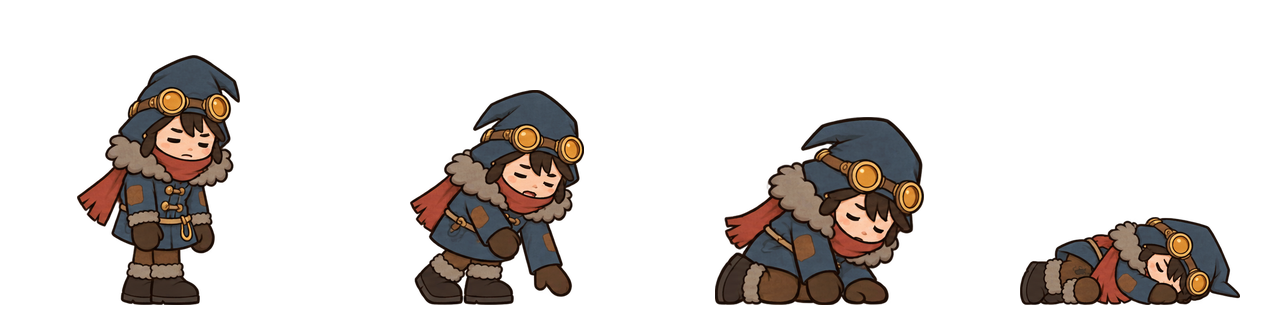
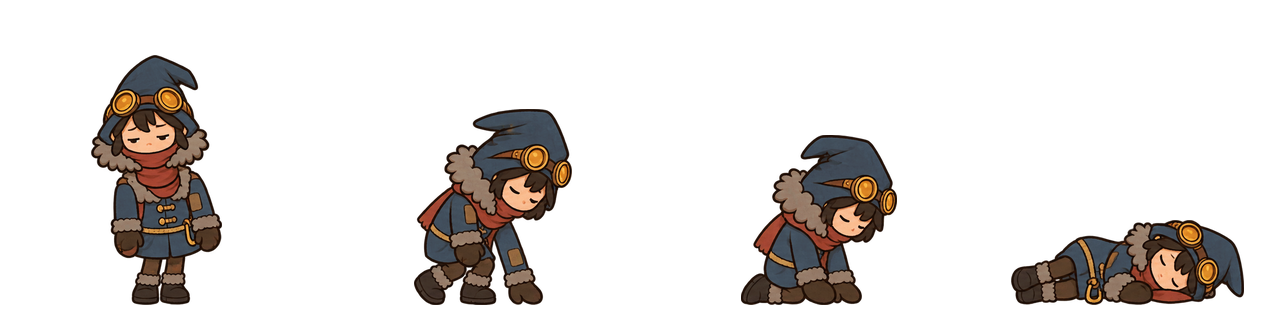
Art batch 3 fixes: lock Esk collapse and dead to turnaround scale

diff --git a/art-codex/tools/finish_batch3.py b/art-codex/tools/finish_batch3.py
@@ -5,7 +5,9 @@ import json
 from pathlib import Path
 import numpy as np
 from PIL import Image, ImageFilter
-from prepare_generated import ROOT, OUT
+from prepare_generated import ROOT, OUT, content
+from check_art import flood, border_mask
+from prepare_batch3 import register as register_generated
 
 
 def records():
@@ -76,6 +78,7 @@ def log_group(group):
     text = '\n## Batch 3: '+group+'\n\n'
     for r in rs:
         text += '### '+r['id']+'\n\nTries: '+str(r.get('tries',1))+'. Built-in imagegen. Source: `'+r['path']+'`.\n\nFinal prompt:\n\n'+r['prompt']+'\n\n'
+        if r.get('notes'): text += r['notes']+'\n\n'
     log = OUT/'LOG.md'
     text = '\n'.join(line.rstrip() for line in text.splitlines())+'\n'
     log.write_text((log.read_text()+text).rstrip()+'\n')
@@ -105,12 +108,100 @@ def centre_strips():
         out.save(path)
 
 
+def small_regions(mask,limit):
+    remaining = mask.copy()
+    h,w = mask.shape
+    for y,x in zip(*np.where(mask)):
+        if not remaining[y,x]: continue
+        stack,points = [(y,x)],[]
+        remaining[y,x] = False
+        while stack:
+            cy,cx = stack.pop()
+            points.append((cy,cx))
+            for ny,nx in ((cy-1,cx),(cy+1,cx),(cy,cx-1),(cy,cx+1)):
+                if 0<=ny<h and 0<=nx<w and remaining[ny,nx]:
+                    remaining[ny,nx] = False
+                    stack.append((ny,nx))
+        if len(points)<=limit: yield tuple(np.array(points).T)
+
+
+def clean_icons(ids=None):
+    specs = json.loads((ROOT/'assets.json').read_text())['assets']
+    for a in specs:
+        if a['batch'] != 3 or not a['id'].startswith(('icon-','badge-','trait-')): continue
+        if ids is not None and a['id'] not in ids: continue
+        path = ROOT.parent/a['path']
+        record = json.loads((OUT/'provenance/batch3'/f"{a['id']}.json").read_text())
+        # Always begin from the generated source so repeated cleanup is stable.
+        register_generated(record['path'],a['id'])
+        rgba = np.array(Image.open(path).convert('RGBA'))
+        alpha = rgba[:,:,3].copy()
+        if a['id']=='icon-lens':
+            # Turn generated glass opacity into a flat disc; encode its painted
+            # upper-left highlight as one transparent cutout instead of shading.
+            empty = alpha<16
+            disk = ~flood(empty,border_mask(*empty.shape,'tblr') & empty)
+            inset = np.asarray(Image.fromarray(disk.astype('uint8')*255).filter(ImageFilter.MinFilter(9)))>0
+            yy,xx = np.indices(alpha.shape)
+            highlights = list(small_regions((alpha>=240)&inset&(xx<64)&(yy<80),alpha.size))
+            if not highlights: raise ValueError('No generated lens highlight found')
+            highlight = max(highlights,key=lambda r:len(r[0]))
+            alpha = disk.astype('uint8')*255
+            alpha[highlight] = 0
+            alpha = np.array(Image.fromarray(alpha).resize((256,256),Image.Resampling.LANCZOS).resize((128,128),Image.Resampling.LANCZOS))
+        if a['id']=='badge-guard':
+            alpha = np.array(Image.fromarray(alpha).filter(ImageFilter.MaxFilter(9)))
+        if a['id']=='trait-night-owl':
+            regions = list(small_regions(alpha>=128,alpha.size))
+            largest = max(regions,key=lambda r:len(r[0]))
+            keep = np.zeros(alpha.shape,dtype=np.uint8)
+            keep[largest] = 255
+            allowed = np.asarray(Image.fromarray(keep).filter(ImageFilter.MaxFilter(3)))>0
+            alpha[~allowed] = 0
+        for region in small_regions(alpha>=16,3): alpha[region] = 0
+        solid = alpha>=128
+        empty = ~solid
+        exterior = flood(empty,border_mask(*empty.shape,'tblr') & empty)
+        for region in small_regions(empty & ~exterior,12): alpha[region] = 255
+        solid = alpha>=128
+        interior = np.asarray(Image.fromarray(solid.astype('uint8')*255).filter(ImageFilter.MinFilter(3)))>0
+        alpha[interior] = 255
+        alpha[alpha>=240] = 255
+        alpha[alpha<16] = 0
+        rgba[:,:,3] = alpha
+        rgba[:,:,:3] = 255
+        cell = content(Image.fromarray(rgba))
+        scale = min(96/cell.width,96/cell.height)
+        cell = cell.resize((round(cell.width*scale),round(cell.height*scale)),Image.Resampling.LANCZOS)
+        out = Image.new('RGBA',(128,128))
+        out.alpha_composite(cell,((128-cell.width)//2,(128-cell.height)//2))
+        out.save(path)
+
+
+def esk_frost(source):
+    strip = Image.open(OUT/'characters/esk/poses/collapse.png').convert('RGBA')
+    base = strip.crop((960,0,1280,320))
+    edited = Image.open(source).convert('RGBA').resize((320,320),Image.Resampling.LANCZOS)
+    rgba = np.array(edited)
+    rgb = rgba[:,:,:3].astype(np.int16)
+    near = np.asarray(base.getchannel('A').filter(ImageFilter.MaxFilter(13)))>=128
+    frost = (rgb[:,:,0]>=160)&(rgb[:,:,1]>=170)&(rgb[:,:,2]>=180)&(rgb[:,:,2]>=rgb[:,:,1])&(rgb[:,:,1]>=rgb[:,:,0]-1)&(rgba[:,:,3]>=32)&near
+    frost[305:] = False
+    if frost.sum()<20: raise ValueError('Generated edit contains too little usable frost')
+    overlay = np.zeros_like(rgba)
+    overlay[frost] = rgba[frost]
+    base.alpha_composite(Image.fromarray(overlay))
+    base.save(OUT/'characters/esk/poses/dead.png')
+
+
 if __name__ == '__main__':
     p = argparse.ArgumentParser()
-    p.add_argument('mode',choices=('states','wrap','log','centre'))
+    p.add_argument('mode',choices=('states','wrap','log','centre','icons','frost'))
     p.add_argument('value',nargs='?')
     args = p.parse_args()
     if args.mode == 'states': align_states()
     elif args.mode == 'centre': centre_strips()
+    elif args.mode == 'icons': clean_icons(set(args.value.split(',')) if args.value else None)
+    elif args.mode == 'frost': esk_frost(args.value)
     elif args.mode == 'wrap': wrap_texture(Path(args.value))
     else: log_group(args.value)

diff --git a/art-codex/tools/review_batch3.py b/art-codex/tools/review_batch3.py
@@ -23,15 +23,19 @@ def comparison(pose, names=NAMES):
 
 
 def icons():
-    names = ('coal', 'food', 'survivors', 'hearth')
-    sheet = Image.new('RGB', (320,128), '#33291f')
-    draw = ImageDraw.Draw(sheet)
-    for i,name in enumerate(names):
-        icon = Image.open(OUT/'ui/icons'/f'{name}.png').convert('RGBA')
-        tiny = icon.resize((20,20),Image.Resampling.LANCZOS)
-        sheet.paste(tiny, (i*80+30,30),tiny)
-        draw.text((i*80+8,65),name,fill='white')
-    sheet.save(OUT/'contact-batch3-icons-20px.png')
+    specs = json.loads((OUT.parent/'assets.json').read_text())['assets']
+    rows = [a for a in specs if (a['batch']==3 and a['id'].startswith(('icon-','badge-','trait-'))) or a['id'] in ('icon-coal','icon-food','icon-survivors','icon-hearth')]
+    rows = [a for a in rows if (OUT.parent.parent/a['path']).exists()]
+    for size,cellw,cellh in ((20,112,72),(128,144,160)):
+        sheet = Image.new('RGB',(6*cellw,((len(rows)+5)//6)*cellh),'#33291f')
+        draw = ImageDraw.Draw(sheet)
+        for i,a in enumerate(rows):
+            im = Image.open(OUT.parent.parent/a['path']).convert('RGBA').resize((size,size),Image.Resampling.LANCZOS)
+            x,y=(i%6)*cellw,(i//6)*cellh
+            sheet.paste(im,(x+(cellw-size)//2,y+8),im)
+            label = a['id'].removeprefix('icon-').replace('badge-','role-')
+            draw.text((x+3,y+size+18),label,fill='white')
+        sheet.save(OUT/f'contact-batch3-icons-{size}px.png')
 
 
 def buildings():
@@ -70,6 +74,17 @@ def creatures():
     sheet.save(OUT/'contact-batch3-creatures.png')
 
 
+def head_scale():
+    sheet = Image.new('RGBA',(960,720),(100,100,100,255))
+    draw = ImageDraw.Draw(sheet)
+    for row,name in enumerate(('esk','mara')):
+        for col,(folder,file) in enumerate((('anim','idle.png'),('anim','walk.png'),('poses','collapse.png'))):
+            head = Image.open(OUT/'characters'/name/folder/file).convert('RGBA').crop((80,30,240,210)).resize((320,360),Image.Resampling.NEAREST)
+            sheet.alpha_composite(head,(col*320,row*360))
+            draw.text((col*320+5,row*360+5),f'{name} {file}',fill='white')
+    sheet.convert('RGB').save(OUT/'contact-batch3-head-scale.png')
+
+
 if __name__ == '__main__':
     comparison('eat')
     comparison('collapse', ('esk','mara','ostra','pim','ruta'))
@@ -77,6 +92,7 @@ if __name__ == '__main__':
     icons()
     buildings()
     creatures()
+    head_scale()
     for pose in ('climb-up','climb-down','ladder-on','ladder-off','research'):
         if all((OUT/'characters'/name/'poses'/f'{pose}.png').exists() for name in NAMES):
             comparison(pose)

diff --git a/art-codex/out/LOG.md b/art-codex/out/LOG.md
@@ -1515,3 +1515,25 @@ A refugee in a ragged, snow-caked coat at the edge of the light, holding up a di
 ONE horizontal animation strip, exactly 2 evenly spaced frames. Each frame has equal320x320 canvas and generous clear space from neighbours, real transparent background. Same anatomy, design and source-pixel scale in all frames. Base or lowest wisp remains on bottom row. Clean flat graphic shapes, consistent ink, no gradient, no glowing halo, no floor or background.     Survivor scale250px tall,105px head, coat95px, legs50px. Facing LEFT. Hood rounded grey-brown, face hidden in dark blue-grey shadow, ragged coat, pale frost crust. Real mittens, never fingers. No goggles. Lantern flame tiny flat orange, no halo. Boots on y304 in320px frame. Only arm waves; body and boots stay fixed.
 
 Creature cleanup: removed generated ambient haze before reduction; registered complete connected creatures where source figures crossed approximate cell divisions; kept one scale across every strip. Heat-leech fills reduced to crisp muted tones. Shade scale matches batch 2 drift, final dissolve wisps retain 65% alpha. Horizontal registration fixes centre-of-mass warnings. Refugee rests on the manifest bottom anchor.
+
+## Batch 3: final Esk scale verification
+
+Repainted collapse using only the turnaround reference, removing the oversized-hood influence from the earlier pose reference. All collapse frames share one source-pixel scale. Dead preserves the exact final collapse body, with only generated pale frost composited on top. Reviewed beside idle and walk in contact-batch3-head-scale.png. Esk check: 46 pass, zero warnings, failures or missing.
+
+### esk-pose-collapse
+
+Tries: 2. Source: /var/home/shariq/.codex/generated_images/01a18495-b86b-71d1-8789-59a825b5766a/exec-1c25ac2a-6861-4cb4-ac49-ffabd60916db.png
+
+Final prompt:
+
+Hand-drawn 2D game art for a side-on underground survival game. Clean, confident dark-brown ink linework of even weight, thicker on the outer silhouette and thinner inside, with slightly hand-made wobble. Flat colour fills with one crisp-edged shadow tone and one small highlight, lit evenly from the upper left. A faint paper-grain texture inside the fills only. Big simple shapes and generous plain areas; detail only where the eye should go. Muted, cold palette; warm colours only for fire, scarves and skin. In the spirit of Klei's Don't Starve and Oxygen Not Included and the flat graphic look of the Hilda animated series. Not photoreal, not 3D-rendered, no airbrushed gradients, no glow, no bloom, no rim light, no lens effects, no cast shadow on the ground, no background, no text.
+The same character as the reference, same proportions, same colours. Repaint Esk's FOUR-FRAME collapse, same physical size as this exact TURNAROUND. Important: head INCLUDING pointed hood and fur ruff is105px tall and110px wide; goggle lenses only24px diameter. Standing figure250px tall: head105px, coat95px, legs50px. Do not enlarge hood, goggles, face or fur in any frame. Four equally spaced full figures in one horizontal transparent strip,320x320 cells. Frame1 standing swaying eyes half closed; frame2 knees buckle and one mitten reaches down; frame3 kneeling slumping forward; frame4 lying on side head on right, eyes closed. Standing250px, kneeling188px, lying about88px tall. Same head physical size throughout, only its angle changes. NEVER scale later poses to fill cells. Ground y304, support centredx160. Mittens not fingers. Copy model proportions literally, no extra chibi head enlargement. No floor or background.
+
+### esk-pose-dead
+
+Tries: 2. Source: /var/home/shariq/.codex/generated_images/01a18495-b86b-71d1-8789-59a825b5766a/exec-e2014258-e7ee-4fe0-bd27-210f661966c7.png
+
+Final prompt:
+
+Hand-drawn 2D game art for a side-on underground survival game. Clean, confident dark-brown ink linework of even weight, thicker on the outer silhouette and thinner inside, with slightly hand-made wobble. Flat colour fills with one crisp-edged shadow tone and one small highlight, lit evenly from the upper left. A faint paper-grain texture inside the fills only. Big simple shapes and generous plain areas; detail only where the eye should go. Muted, cold palette; warm colours only for fire, scarves and skin. In the spirit of Klei's Don't Starve and Oxygen Not Included and the flat graphic look of the Hilda animated series. Not photoreal, not 3D-rendered, no airbrushed gradients, no glow, no bloom, no rim light, no lens effects, no cast shadow on the ground, no background, no text.
+Edit target: Esk's exact last collapse frame. Keep the same character, same proportions, same colours and EVERY body, hood, face and boot pixel in the same place and at the same size. Add ONLY a THIN pale blue-white frost crust #e4f1fb #9cc4e4 along the TOP edges of hood, shoulders and boots, tiny frost on closed eyelashes. No blood, no skull or X eyes. Preserve exact320x320 transparent canvas framing, body resting on y304. No floor or frozen backdrop. Only add frost; do not redraw or move the body.

diff --git a/art-codex/out/check-batch3-fixes-esk.md b/art-codex/out/check-batch3-fixes-esk.md
@@ -1,7 +1,7 @@
 # Art check
 
-Filters: batch=all id=* character=esk  
-**45 pass, 0 warn, 0 fail, 6 missing**
+Filters: batch=all id=esk character=*
+**46 pass, 0 warn, 0 fail, 0 missing**
 
 | id | status | problems |
 |---|---|---|
@@ -34,6 +34,11 @@ Filters: batch=all id=* character=esk
 | `esk-pose-cold` | PASS |  |
 | `esk-pose-collapse` | PASS |  |
 | `esk-pose-dead` | PASS |  |
+| `esk-pose-climb-up` | PASS |  |
+| `esk-pose-climb-down` | PASS |  |
+| `esk-pose-ladder-on` | PASS |  |
+| `esk-pose-research` | PASS |  |
+| `esk-pose-ladder-off` | PASS |  |
 | `esk-anim-idle` | PASS |  |
 | `esk-anim-walk` | PASS |  |
 | `esk-anim-dig` | PASS |  |
@@ -43,19 +48,6 @@ Filters: batch=all id=* character=esk
 | `esk-anim-celebrate` | PASS |  |
 | `esk-anim-cold` | PASS |  |
 | `esk-anim-sleep` | PASS |  |
-| `prop-pickaxe` | PASS |  |
-| `prop-hammer` | PASS |  |
-| `prop-coal-sack` | PASS |  |
-| `prop-lantern` | PASS |  |
 | `esk-side-stacked` | PASS |  |
 | `esk-front-stacked` | PASS |  |
 | `esk-back-stacked` | PASS |  |
-
-## Missing (6)
-
-- `esk-pose-climb-up` -> `art-codex/out/characters/esk/poses/climb-up.png`
-- `esk-pose-climb-down` -> `art-codex/out/characters/esk/poses/climb-down.png`
-- `esk-pose-ladder-on` -> `art-codex/out/characters/esk/poses/ladder-on.png`
-- `esk-pose-research` -> `art-codex/out/characters/esk/poses/research.png`
-- `esk-pose-ladder-off` -> `art-codex/out/characters/esk/poses/ladder-off.png`
-- `prop-crowbar` -> `art-codex/out/props/crowbar.png`
